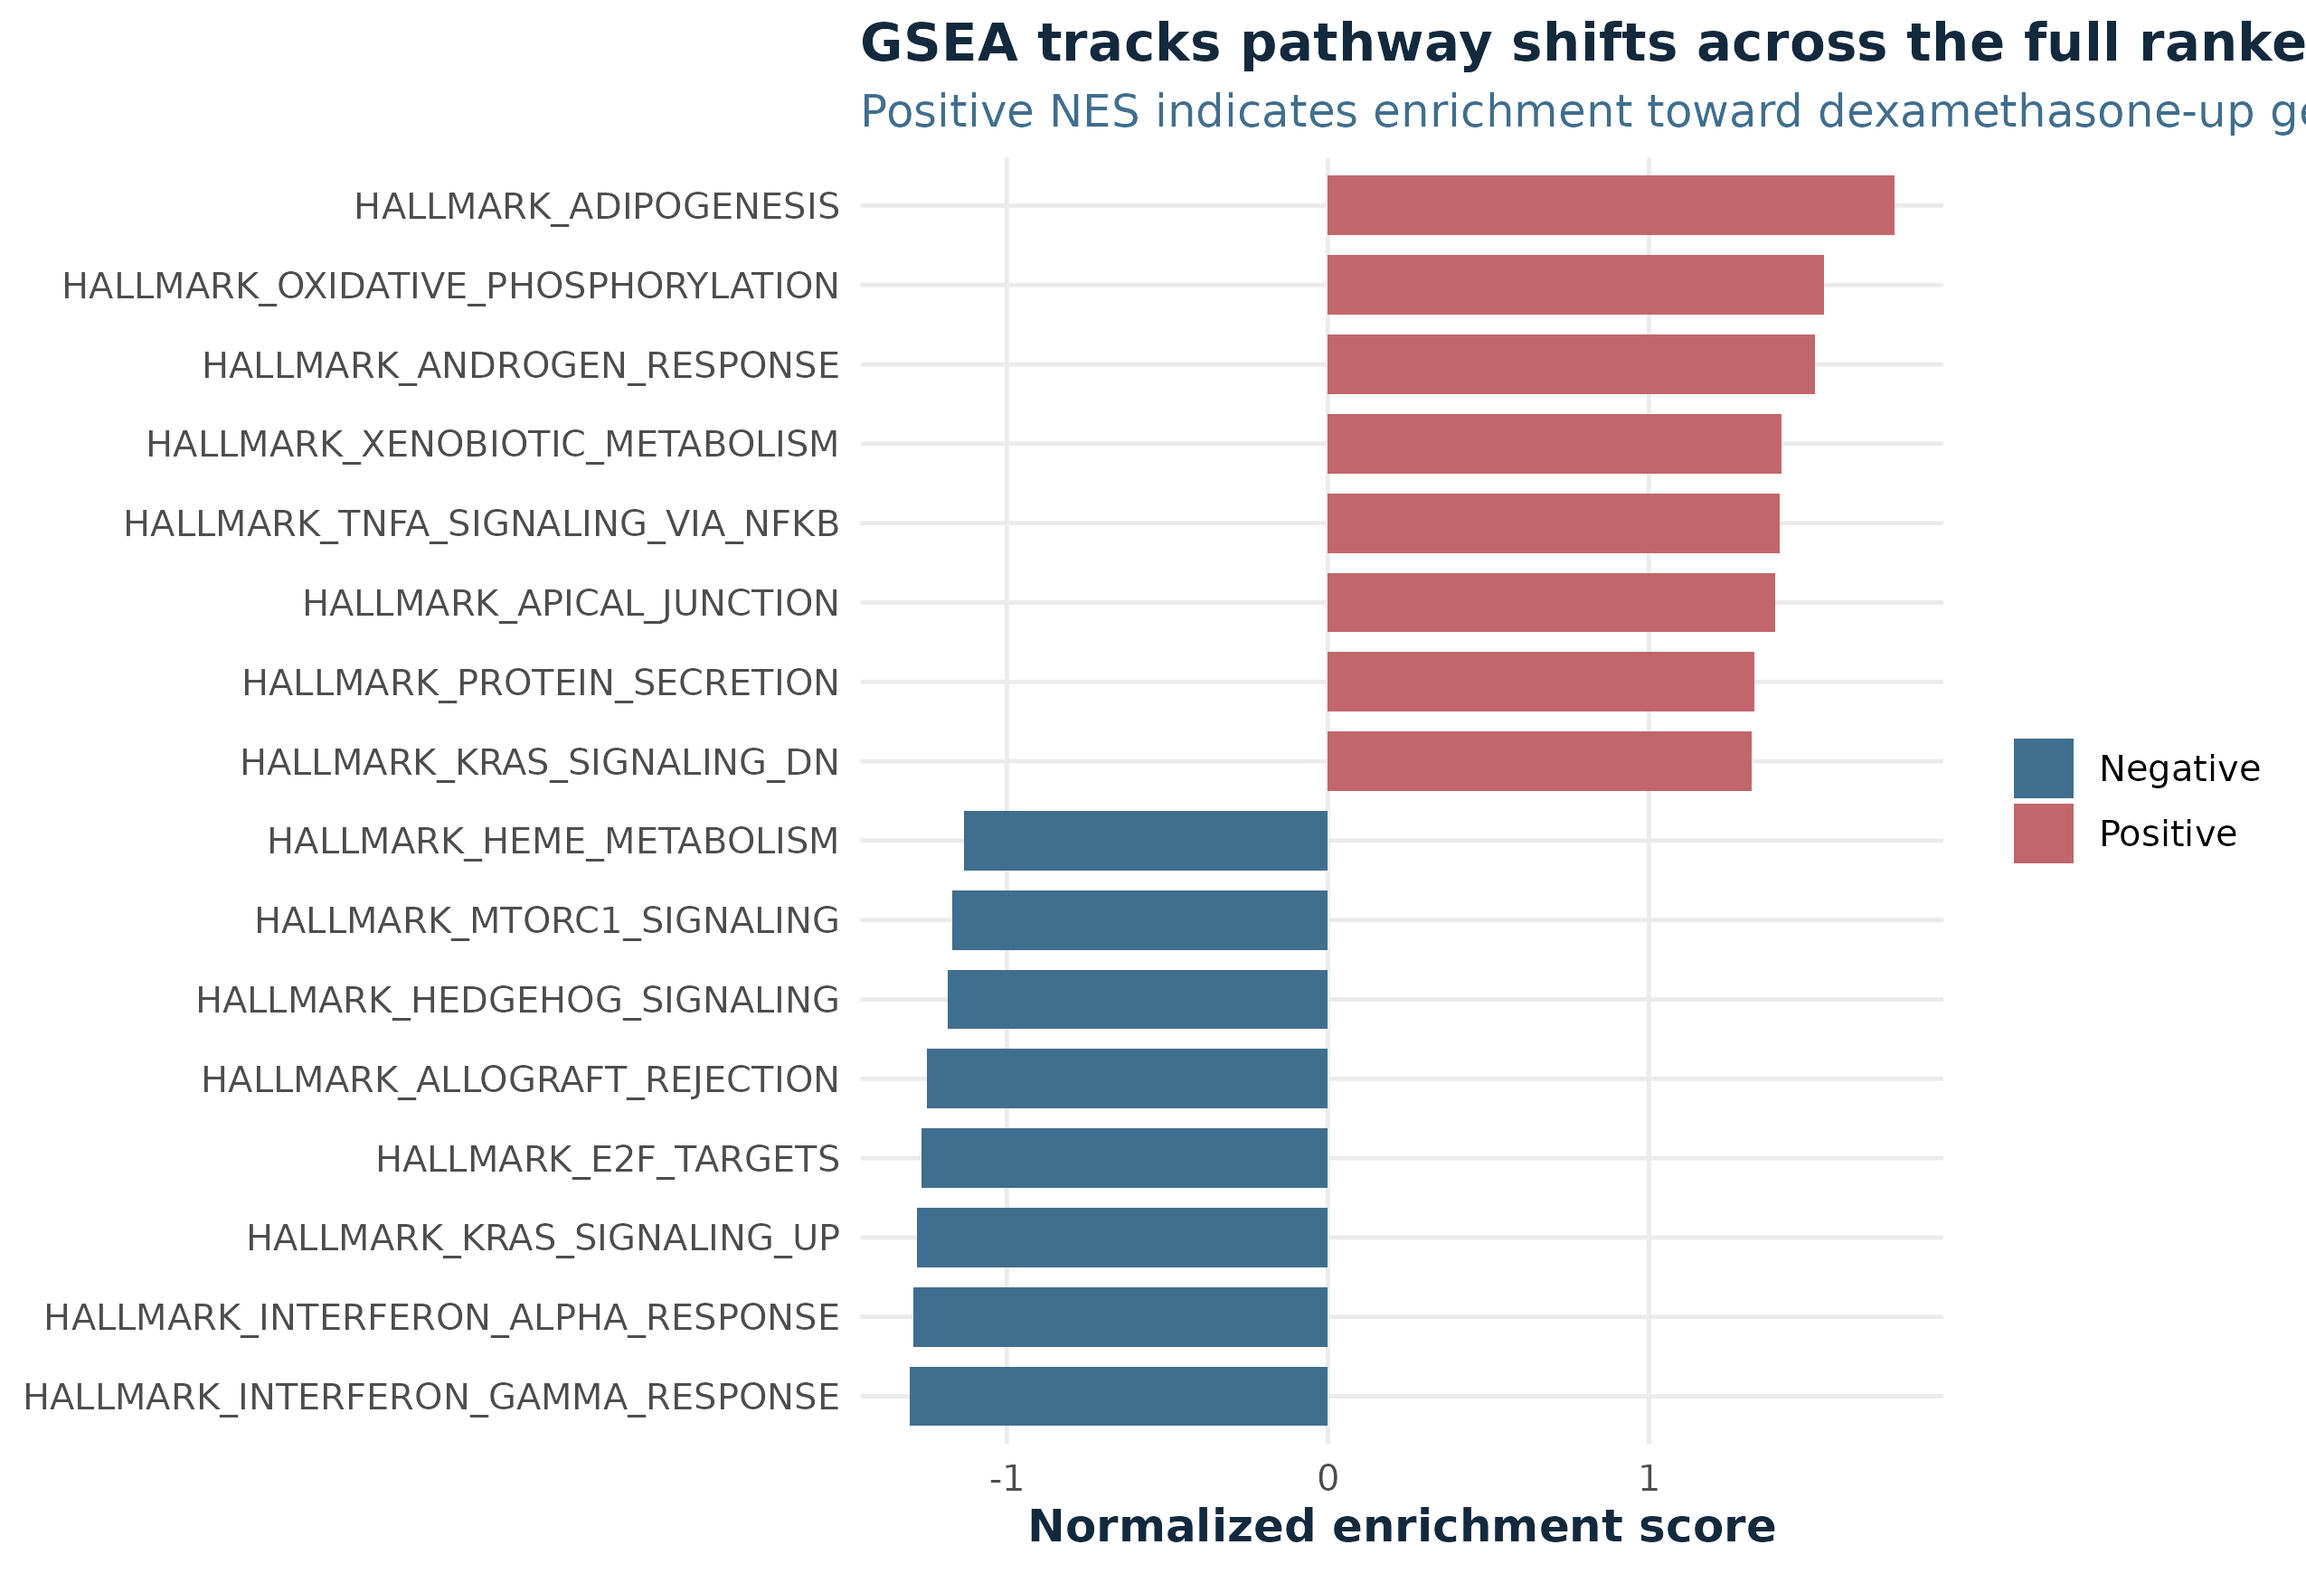
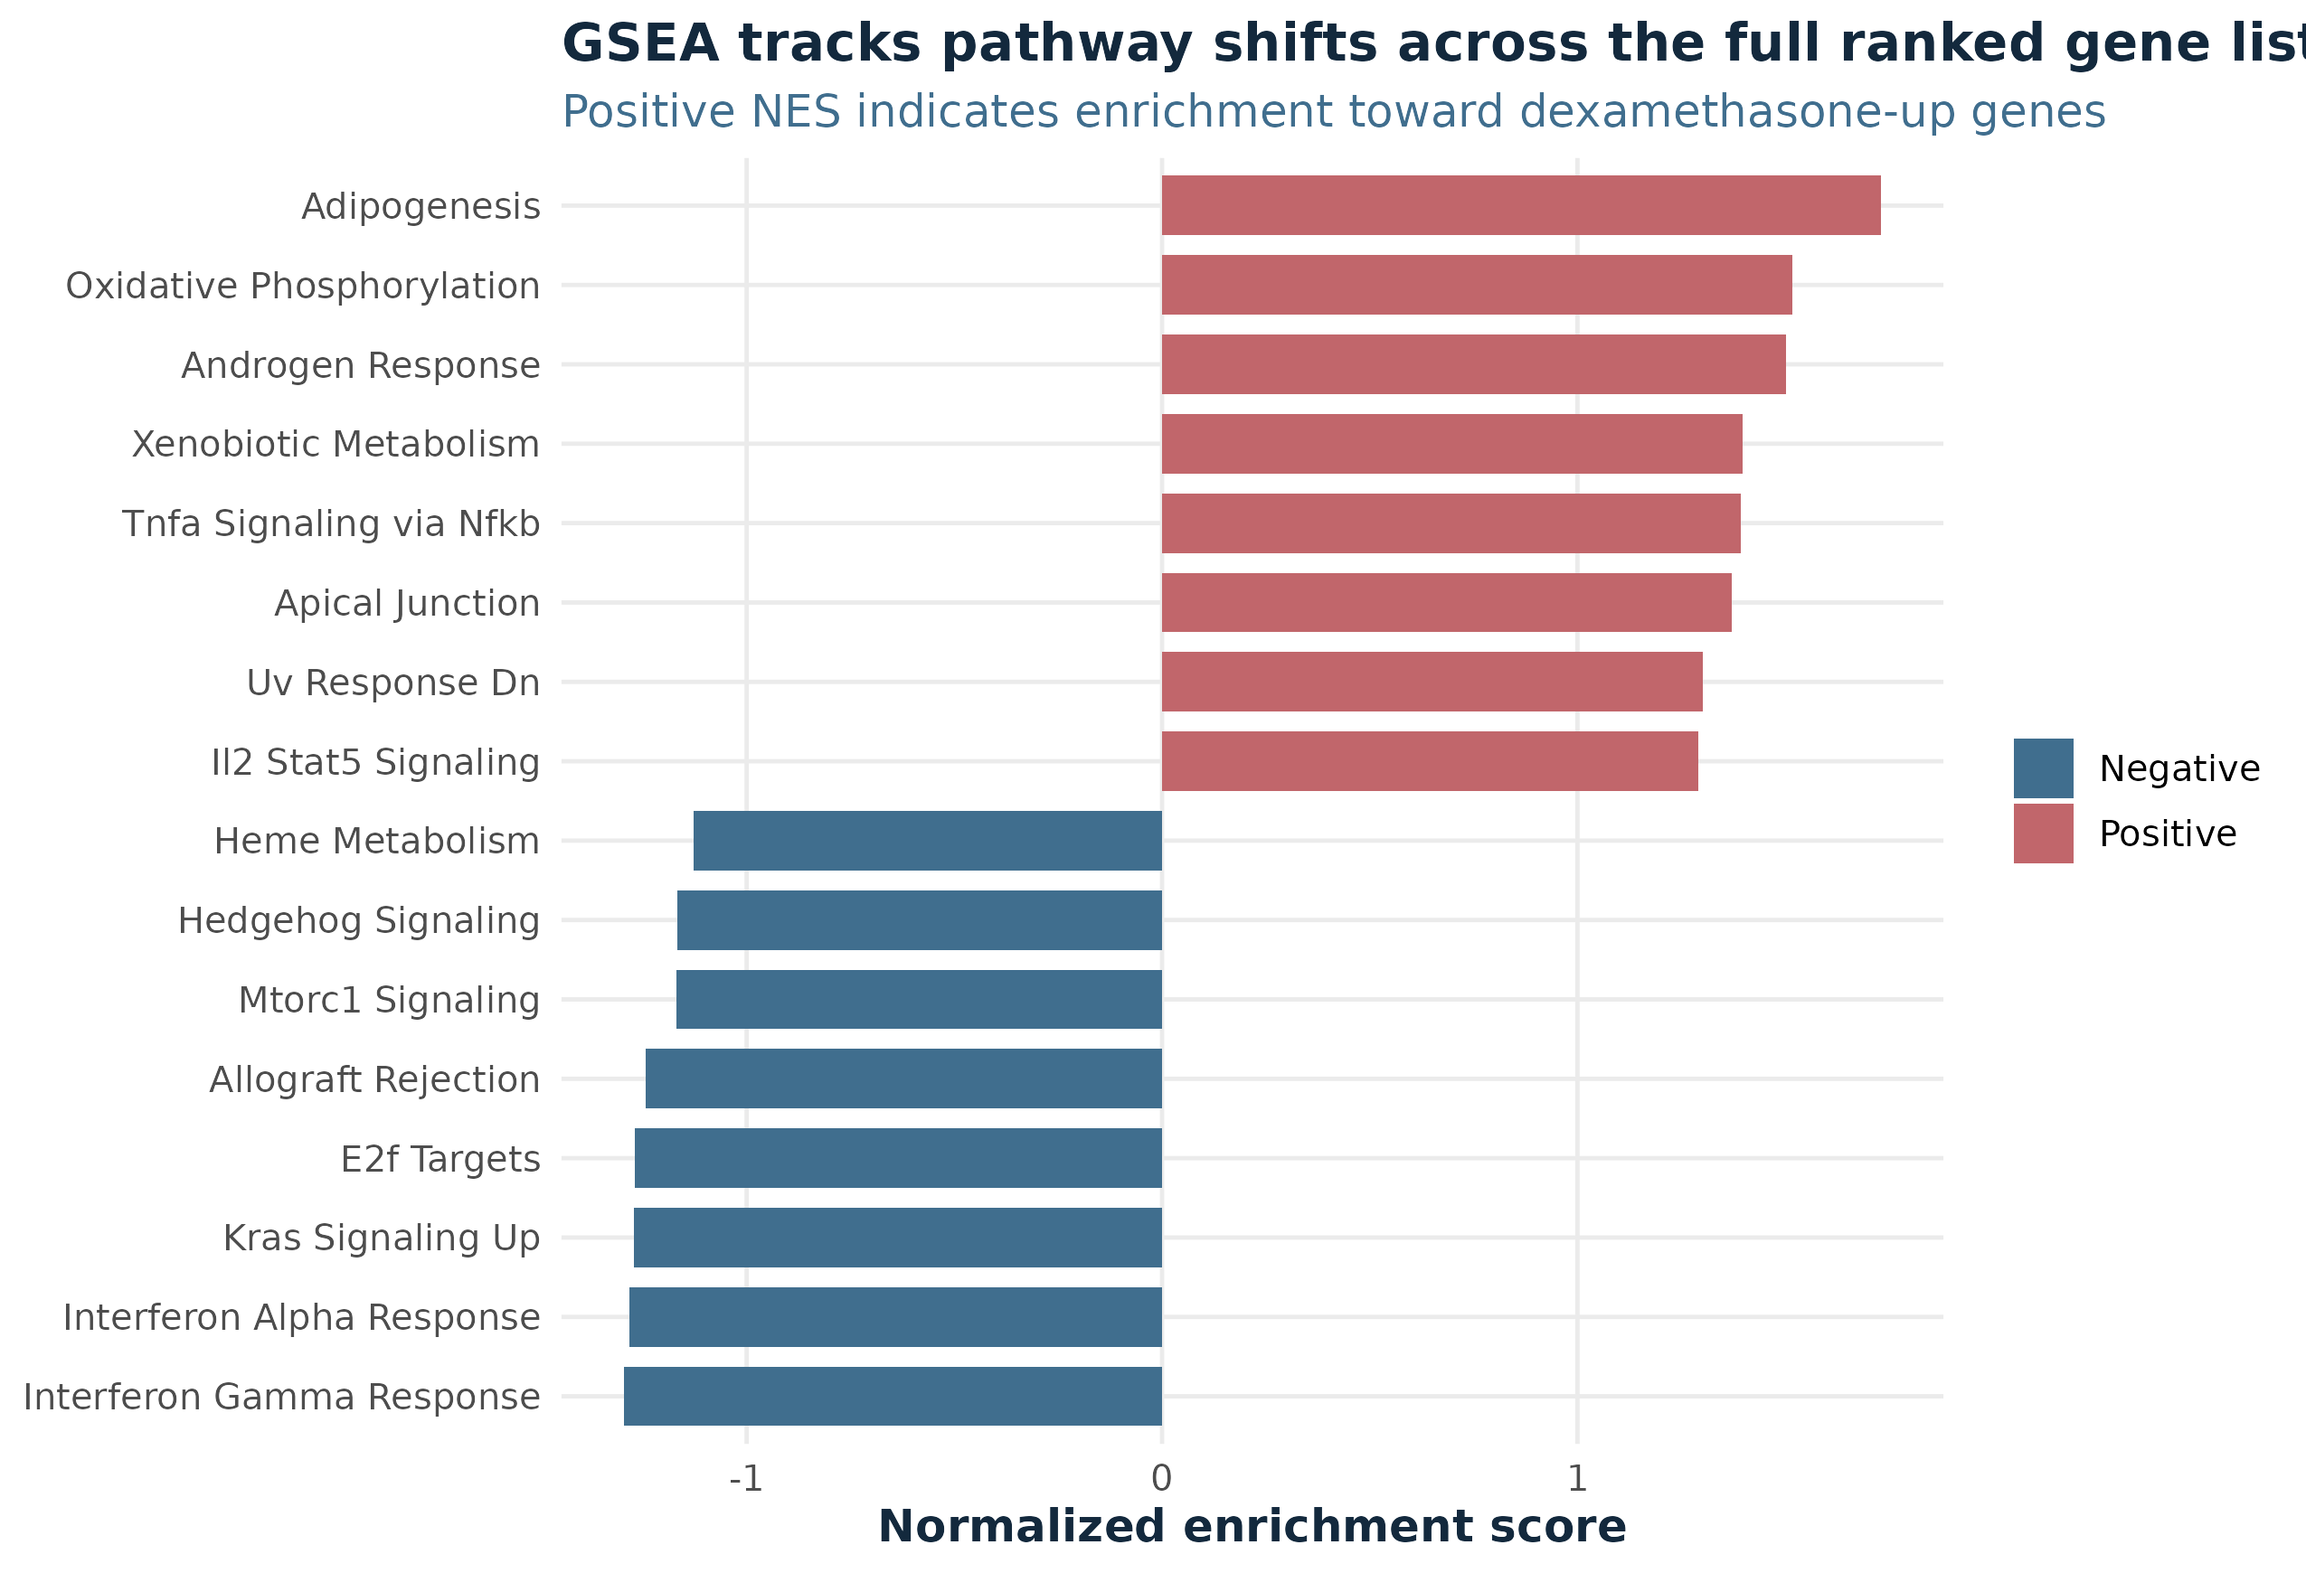
Improve functional interpretation outputs

diff --git a/README.md b/README.md
@@ -271,27 +271,27 @@ threshold used to define DE genes.
 <figcaption aria-hidden="true">ORA summary</figcaption>
 </figure>
 
-| Description | GeneRatio | Count | p.adjust |
-|:---|:---|---:|---:|
-| A process that is carried out at the cellular level which results in the assembly, arrangement of constituent parts, or disassembly of external structures that lie outside the plasma membrane and surround the entire cell. \[GOC:ai, GOC:dph, GOC:jl, GOC:mah\] | 26/415 | 26 | 8.03e-05 |
-| An organ system process carried out at the level of a muscle. Muscle tissue is composed of contractile cells or fibers. \[GOC:mtg_cardio\] | 26/415 | 26 | 9.50e-03 |
-| A process in which muscle adapts, with consequent modifications to structural and/or functional phenotypes, in response to a stimulus. Stimuli include contractile activity, loading conditions, substrate supply, and environmental factors. These adaptive events occur in both muscle fibers and associated structures (motoneurons and capillaries), and they involve alterations in regulatory mechanisms, contractile properties and metabolic capacities. \[GOC:mtg_muscle, <PMID:11181628>, <PMID:11449884>, <PMID:12605307>\] | 11/415 | 11 | 9.50e-03 |
-| Any process in which striated muscle adapts, with consequent modifications to structural and/or functional phenotypes, in response to a stimulus. Stimuli include contractile activity, loading conditions, substrate supply, and environmental factors. These adaptive events occur in both muscle fibers and associated structures (motoneurons and capillaries), and they involve alterations in regulatory mechanisms, contractile properties and metabolic capacities. \[GOC:mtg_muscle\] | 7/415 | 7 | 9.50e-03 |
-| Any process that modulates the frequency, rate or extent of a system process, a multicellular organismal process carried out by any of the organs or tissues in an organ system. \[GOC:jl\] | 26/415 | 26 | 1.25e-02 |
-| The attachment of a cell to the underlying substrate via adhesion molecules. \[GOC:mah, GOC:pf\] | 22/415 | 22 | 1.32e-02 |
-| The muscle system process that results in enlargement or overgrowth of all or part of a muscle organ due to an increase in the size of its muscle cells. Physiological hypertrophy is a normal process during development (it stops in cardiac muscle after adolescence) and can also be brought on in response to demand. In athletes cardiac and skeletal muscles undergo hypertrophy stimulated by increasing muscle activity on exercise. Smooth muscle cells in the uterus undergo hypertrophy during pregnancy. \[GOC:mtg_muscle\] | 10/415 | 10 | 1.32e-02 |
-| The process that involves the secretion of or response to endocrine hormones. An endocrine hormone is a hormone released into the circulatory system. \[<ISBN:0721662544>\] | 9/415 | 9 | 1.32e-02 |
+#### Top up-regulated themes
 
-| Description | GeneRatio | Count | p.adjust |
-|:---|:---|---:|---:|
-| An organ system process carried out by any of the organs or tissues of the circulatory system. The circulatory system is an organ system that moves extracellular fluids to and from tissue within a multicellular organism. \[GOC:mtg_cardio\] | 33/345 | 33 | 3.20e-06 |
-| The progression of an axon over time. Covers axonogenesis (de novo generation of an axon) and axon regeneration (regrowth), as well as processes pertaining to the progression of the axon over time (fasciculation and defasciculation). \[GOC:dph, GOC:pg, GOC:pr\] | 30/345 | 30 | 1.47e-05 |
-| Any process that modulates the frequency, rate or extent of nervous system development, the origin and formation of nervous tissue. \[GOC:ai\] | 26/345 | 26 | 1.47e-05 |
-| Any process that modulates the frequency, rate or extent of blood circulation. \[GO_REF:0000058, GOC:mr, GOC:TermGenie, <PMID:10659969>\] | 19/345 | 19 | 1.47e-05 |
-| Any process that activates, maintains or increases the frequency, rate or extent of nervous system development, the origin and formation of nervous tissue. \[GOC:ai\] | 20/345 | 20 | 2.60e-05 |
-| Any process that modulates the frequency, rate or extent of a system process, a multicellular organismal process carried out by any of the organs or tissues in an organ system. \[GOC:jl\] | 27/345 | 27 | 1.04e-04 |
-| The process in which the structures of a neuron are generated and organized. This process occurs while the initially relatively unspecialized cell is acquiring the specialized features of a neuron. \[GOC:dph, GOC:tb\] | 30/345 | 30 | 1.06e-04 |
-| Any process that modulates the levels of body fluids. \[GOC:ai, GOC:dph, GOC:tb\] | 22/345 | 22 | 1.06e-04 |
+| Term                                          | GeneRatio | Count | p.adjust |
+|:----------------------------------------------|:----------|------:|---------:|
+| External Encapsulating Structure Organization | 26/415    |    26 | 8.03e-05 |
+| Muscle System Process                         | 26/415    |    26 | 9.50e-03 |
+| Muscle Adaptation                             | 11/415    |    11 | 9.50e-03 |
+| Striated Muscle Adaptation                    | 7/415     |     7 | 9.50e-03 |
+| Regulation of System Process                  | 26/415    |    26 | 1.25e-02 |
+| Cell Substrate Adhesion                       | 22/415    |    22 | 1.32e-02 |
+
+#### Top down-regulated themes
+
+| Term                                              | GeneRatio | Count | p.adjust |
+|:--------------------------------------------------|:----------|------:|---------:|
+| Circulatory System Process                        | 33/345    |    33 | 3.20e-06 |
+| Axon Development                                  | 30/345    |    30 | 1.47e-05 |
+| Regulation of Nervous System Development          | 26/345    |    26 | 1.47e-05 |
+| Regulation of Blood Circulation                   | 19/345    |    19 | 1.47e-05 |
+| Positive Regulation of Nervous System Development | 20/345    |    20 | 2.60e-05 |
+| Regulation of System Process                      | 27/345    |    27 | 1.04e-04 |
 
 In this dataset, ORA highlights the biological themes that stand out
 once we draw a hard line around the DE genes. That is useful, but it
@@ -327,18 +327,18 @@ sensitive to coordinated but moderate shifts.
 <figcaption aria-hidden="true">GSEA summary</figcaption>
 </figure>
 
-| pathway                            |  NES |    padj | size | direction |
-|:-----------------------------------|-----:|--------:|-----:|:----------|
-| HALLMARK_ADIPOGENESIS              | 1.76 | 0.00143 |  196 | Positive  |
-| HALLMARK_OXIDATIVE_PHOSPHORYLATION | 1.55 | 0.08740 |  199 | Positive  |
-| HALLMARK_ANDROGEN_RESPONSE         | 1.52 | 0.13000 |   97 | Positive  |
-| HALLMARK_XENOBIOTIC_METABOLISM     | 1.41 | 0.18100 |  192 | Positive  |
-| HALLMARK_TNFA_SIGNALING_VIA_NFKB   | 1.41 | 0.18100 |  193 | Positive  |
-| HALLMARK_APICAL_JUNCTION           | 1.39 | 0.18100 |  188 | Positive  |
-| HALLMARK_PROTEIN_SECRETION         | 1.33 | 0.20900 |   95 | Positive  |
-| HALLMARK_KRAS_SIGNALING_DN         | 1.32 | 0.20900 |  167 | Positive  |
-| HALLMARK_UV_RESPONSE_DN            | 1.32 | 0.20900 |  144 | Positive  |
-| HALLMARK_IL2_STAT5_SIGNALING       | 1.31 | 0.20900 |  190 | Positive  |
+| Pathway                   |   NES |    padj | size | direction |
+|:--------------------------|------:|--------:|-----:|:----------|
+| Adipogenesis              |  1.73 | 0.00108 |  196 | Positive  |
+| Oxidative Phosphorylation |  1.52 | 0.03650 |  199 | Positive  |
+| Androgen Response         |  1.50 | 0.16000 |   97 | Positive  |
+| Tnfa Signaling via Nfkb   |  1.39 | 0.16000 |  193 | Positive  |
+| Xenobiotic Metabolism     |  1.40 | 0.20300 |  192 | Positive  |
+| Apical Junction           |  1.37 | 0.21300 |  188 | Positive  |
+| Uv Response Dn            |  1.30 | 0.21300 |  144 | Positive  |
+| Interferon Gamma Response | -1.29 | 0.21300 |  189 | Negative  |
+| Il2 Stat5 Signaling       |  1.29 | 0.21300 |  190 | Positive  |
+| Kras Signaling Dn         |  1.29 | 0.21300 |  167 | Positive  |
 
 <figure>
 <img src="results/figures/gsea_top_positive.png"
